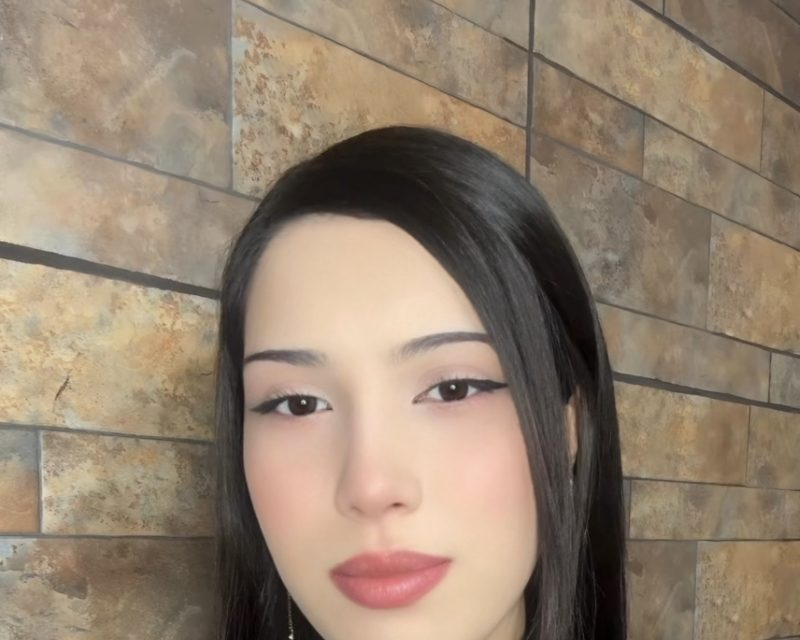
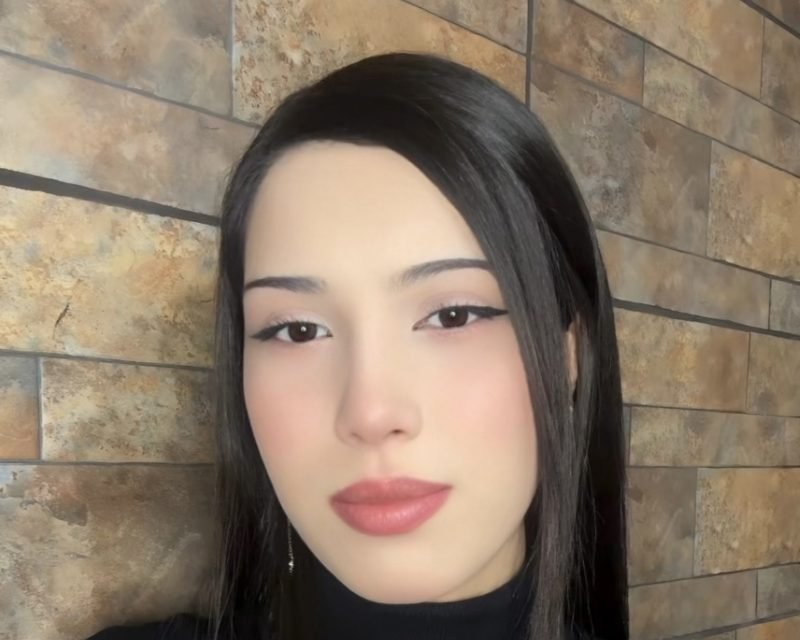
up
up

diff --git a/equipo/index.html b/equipo/index.html
@@ -286,51 +286,21 @@
       border-top: 1px solid var(--color-border-light);
     }
 
-    .team-grid-tesistas {
-      display: grid;
-      grid-template-columns: repeat(2, 1fr);
-      gap: var(--space-lg);
-      margin-top: var(--space-xl);
-    }
+    /* Tesistas (29-10): usan la misma tarjeta .profile-card que el resto del equipo.
+       Solo cambia el espacio sobre la grilla y el ícono de quien aún no tiene foto. */
+    .team-grid--tesistas { margin-top: var(--space-lg); }
 
-    @media (min-width: 600px) {
-      .team-grid-tesistas { grid-template-columns: repeat(4, 1fr); }
-    }
-
-    .tesista-card {
-      border: 1px solid var(--color-border-light);   /* 23-10: antes punteado (cupos vacíos) */
-      border-radius: var(--radius-xl);
-      padding: var(--space-xl) var(--space-md);
-      display: flex;
-      flex-direction: column;
-      align-items: center;
-      text-align: center;
-      gap: var(--space-sm);
-    }
-
-    .tesista-card__avatar {
-      width: 80px;
-      height: 80px;
-      border-radius: 50%;
-      background: var(--color-surface);
-      border: 2px dashed var(--color-border);
+    .profile-card__cover--vacia {
       display: flex;
       align-items: center;
       justify-content: center;
       color: var(--color-text-light);
     }
 
-    .tesista-card__name {
-      font-size: var(--text-sm);
-      font-weight: 600;
-      color: var(--color-text);   /* 23-10: antes gris e itálica ("Por confirmar") */
-    }
+    /* Tesistas: las fotos son 800×640 con el rostro centrado → encuadre al centro */
+    .team-grid--tesistas .profile-card__photo { object-position: center; }
 
-    /* Tesistas con foto (29-10): la foto llena el círculo */
-    .tesista-card__avatar--foto { border: none; overflow: hidden; }
-    .tesista-card__avatar--foto img { width: 100%; height: 100%; object-fit: cover; display: block; }
-    .tesista-card .profile-card__btn { margin-top: var(--space-xs); }
-    /* En el modal de tesistas, encuadra el rostro (fotos 800×640) */
+    /* En el modal de tesistas, encuadra el rostro */
     .profile-modal--tesista .profile-modal__photo { object-position: center 40%; }
 
     /* Subtítulos "Tesistas de pregrado" / "Tesistas de magíster" */
@@ -339,17 +309,6 @@
       font-weight: 600;
       color: var(--color-text);
       margin-top: var(--space-xl);
-    }
-
-    /* Institución bajo "Tesista de pregrado/posgrado" */
-    .tesista-card__inst {
-      font-size: var(--text-xs);
-      color: var(--color-text-muted);
-    }
-
-    .tesista-card__label {
-      font-size: var(--text-xs);
-      color: var(--color-text-light);
     }
 
     .profile-link {
@@ -769,74 +728,98 @@
                Los modales de tesistas están al final, después de los del resto del equipo.
                Fotos: assets/equipo/<nombre-apellido>.jpg, 800×640 px, rostro centrado. -->
           <h3 class="tesistas-subheading">Tesistas de pregrado</h3>
-          <div class="team-grid-tesistas">
+          <div class="team-grid team-grid--tesistas">
             <!-- SOFÍA CORTÉS -->
-            <div class="tesista-card">
-              <div class="tesista-card__avatar tesista-card__avatar--foto"><img loading="lazy" src="../assets/equipo/sofia-cortes.jpg" alt="Sofía Cortés" width="80" height="80"></div>
-              <p class="tesista-card__name">Sofía Cortés</p>
-              <p class="tesista-card__label">Tesista de pregrado</p>
-              <p class="tesista-card__inst">Universidad Diego Portales</p>
-              <button class="profile-card__btn" data-modal="modal-sofia-cortes" aria-haspopup="dialog">
-                Ver perfil
-                <svg width="14" height="14" viewBox="0 0 24 24" fill="none" stroke="currentColor" stroke-width="2.5" stroke-linecap="round" stroke-linejoin="round" aria-hidden="true"><path d="M5 12h14M12 5l7 7-7 7"/></svg>
-              </button>
-            </div>
+            <article class="profile-card">
+              <div class="profile-card__cover">
+                <img loading="lazy" src="../assets/equipo/sofia-cortes.jpg" alt="Sofía Cortés" class="profile-card__photo">
+              </div>
+              <div class="profile-card__body">
+                <h3 class="profile-card__name">Sofía Cortés</h3>
+                <p class="profile-card__role">Tesista de pregrado</p>
+                <p class="profile-card__inst">Universidad Diego Portales</p>
+                <button class="profile-card__btn" data-modal="modal-sofia-cortes" aria-haspopup="dialog">
+                  Ver perfil
+                  <svg width="14" height="14" viewBox="0 0 24 24" fill="none" stroke="currentColor" stroke-width="2.5" stroke-linecap="round" stroke-linejoin="round" aria-hidden="true"><path d="M5 12h14M12 5l7 7-7 7"/></svg>
+                </button>
+              </div>
+            </article>
             <!-- ARANTZA GÁLVEZ -->
-            <div class="tesista-card">
-              <div class="tesista-card__avatar tesista-card__avatar--foto"><img loading="lazy" src="../assets/equipo/arantza-galvez.jpg" alt="Arantza Gálvez" width="80" height="80"></div>
-              <p class="tesista-card__name">Arantza Gálvez</p>
-              <p class="tesista-card__label">Tesista de pregrado</p>
-              <p class="tesista-card__inst">Universidad Diego Portales</p>
-              <button class="profile-card__btn" data-modal="modal-arantza-galvez" aria-haspopup="dialog">
-                Ver perfil
-                <svg width="14" height="14" viewBox="0 0 24 24" fill="none" stroke="currentColor" stroke-width="2.5" stroke-linecap="round" stroke-linejoin="round" aria-hidden="true"><path d="M5 12h14M12 5l7 7-7 7"/></svg>
-              </button>
-            </div>
+            <article class="profile-card">
+              <div class="profile-card__cover">
+                <img loading="lazy" src="../assets/equipo/arantza-galvez.jpg" alt="Arantza Gálvez" class="profile-card__photo">
+              </div>
+              <div class="profile-card__body">
+                <h3 class="profile-card__name">Arantza Gálvez</h3>
+                <p class="profile-card__role">Tesista de pregrado</p>
+                <p class="profile-card__inst">Universidad Diego Portales</p>
+                <button class="profile-card__btn" data-modal="modal-arantza-galvez" aria-haspopup="dialog">
+                  Ver perfil
+                  <svg width="14" height="14" viewBox="0 0 24 24" fill="none" stroke="currentColor" stroke-width="2.5" stroke-linecap="round" stroke-linejoin="round" aria-hidden="true"><path d="M5 12h14M12 5l7 7-7 7"/></svg>
+                </button>
+              </div>
+            </article>
             <!-- ARACELY RODRÍGUEZ -->
-            <div class="tesista-card">
-              <div class="tesista-card__avatar tesista-card__avatar--foto"><img loading="lazy" src="../assets/equipo/aracely-rodriguez.jpg" alt="Aracely Rodríguez" width="80" height="80"></div>
-              <p class="tesista-card__name">Aracely Rodríguez</p>
-              <p class="tesista-card__label">Tesista de pregrado</p>
-              <p class="tesista-card__inst">Universidad Diego Portales</p>
-              <button class="profile-card__btn" data-modal="modal-aracely-rodriguez" aria-haspopup="dialog">
-                Ver perfil
-                <svg width="14" height="14" viewBox="0 0 24 24" fill="none" stroke="currentColor" stroke-width="2.5" stroke-linecap="round" stroke-linejoin="round" aria-hidden="true"><path d="M5 12h14M12 5l7 7-7 7"/></svg>
-              </button>
-            </div>
+            <article class="profile-card">
+              <div class="profile-card__cover">
+                <img loading="lazy" src="../assets/equipo/aracely-rodriguez.jpg" alt="Aracely Rodríguez" class="profile-card__photo">
+              </div>
+              <div class="profile-card__body">
+                <h3 class="profile-card__name">Aracely Rodríguez</h3>
+                <p class="profile-card__role">Tesista de pregrado</p>
+                <p class="profile-card__inst">Universidad Diego Portales</p>
+                <button class="profile-card__btn" data-modal="modal-aracely-rodriguez" aria-haspopup="dialog">
+                  Ver perfil
+                  <svg width="14" height="14" viewBox="0 0 24 24" fill="none" stroke="currentColor" stroke-width="2.5" stroke-linecap="round" stroke-linejoin="round" aria-hidden="true"><path d="M5 12h14M12 5l7 7-7 7"/></svg>
+                </button>
+              </div>
+            </article>
             <!-- CATALINA ROJAS (falta foto y descripción: queda con ícono y sin botón) -->
-            <div class="tesista-card">
-              <div class="tesista-card__avatar"><svg width="32" height="32" viewBox="0 0 24 24" fill="none" stroke="currentColor" stroke-width="1.5" aria-hidden="true"><circle cx="12" cy="8" r="4"/><path d="M4 20c0-4 3.6-7 8-7s8 3 8 7"/></svg></div>
-              <p class="tesista-card__name">Catalina Rojas</p>
-              <p class="tesista-card__label">Tesista de pregrado</p>
-              <p class="tesista-card__inst">Universidad Diego Portales</p>
-            </div>
+            <article class="profile-card">
+              <div class="profile-card__cover profile-card__cover--vacia">
+                <svg width="40" height="40" viewBox="0 0 24 24" fill="none" stroke="currentColor" stroke-width="1.5" aria-hidden="true"><circle cx="12" cy="8" r="4"/><path d="M4 20c0-4 3.6-7 8-7s8 3 8 7"/></svg>
+              </div>
+              <div class="profile-card__body">
+                <h3 class="profile-card__name">Catalina Rojas</h3>
+                <p class="profile-card__role">Tesista de pregrado</p>
+                <p class="profile-card__inst">Universidad Diego Portales</p>
+              </div>
+            </article>
           </div><!-- /.team-grid-tesistas pregrado -->
 
           <!-- TESISTAS DE MAGÍSTER -->
           <h3 class="tesistas-subheading">Tesistas de magíster</h3>
-          <div class="team-grid-tesistas">
+          <div class="team-grid team-grid--tesistas">
             <!-- TRAJAN PIRKOVIC -->
-            <div class="tesista-card">
-              <div class="tesista-card__avatar tesista-card__avatar--foto"><img loading="lazy" src="../assets/equipo/trajan-pirkovic.jpg" alt="Trajan Pirkovic" width="80" height="80"></div>
-              <p class="tesista-card__name">Trajan Pirkovic</p>
-              <p class="tesista-card__label">Tesista de magíster</p>
-              <p class="tesista-card__inst">P. Universidad Católica de Chile</p>
-              <button class="profile-card__btn" data-modal="modal-trajan-pirkovic" aria-haspopup="dialog">
-                Ver perfil
-                <svg width="14" height="14" viewBox="0 0 24 24" fill="none" stroke="currentColor" stroke-width="2.5" stroke-linecap="round" stroke-linejoin="round" aria-hidden="true"><path d="M5 12h14M12 5l7 7-7 7"/></svg>
-              </button>
-            </div>
+            <article class="profile-card">
+              <div class="profile-card__cover">
+                <img loading="lazy" src="../assets/equipo/trajan-pirkovic.jpg" alt="Trajan Pirkovic" class="profile-card__photo">
+              </div>
+              <div class="profile-card__body">
+                <h3 class="profile-card__name">Trajan Pirkovic</h3>
+                <p class="profile-card__role">Tesista de magíster</p>
+                <p class="profile-card__inst">Pontificia Universidad Católica de Chile</p>
+                <button class="profile-card__btn" data-modal="modal-trajan-pirkovic" aria-haspopup="dialog">
+                  Ver perfil
+                  <svg width="14" height="14" viewBox="0 0 24 24" fill="none" stroke="currentColor" stroke-width="2.5" stroke-linecap="round" stroke-linejoin="round" aria-hidden="true"><path d="M5 12h14M12 5l7 7-7 7"/></svg>
+                </button>
+              </div>
+            </article>
             <!-- IGNACIO ZAVALA -->
-            <div class="tesista-card">
-              <div class="tesista-card__avatar tesista-card__avatar--foto"><img loading="lazy" src="../assets/equipo/ignacio-zavala.jpg" alt="Ignacio Zavala" width="80" height="80"></div>
-              <p class="tesista-card__name">Ignacio Zavala</p>
-              <p class="tesista-card__label">Tesista de magíster</p>
-              <p class="tesista-card__inst">P. Universidad Católica de Chile</p>
-              <button class="profile-card__btn" data-modal="modal-ignacio-zavala" aria-haspopup="dialog">
-                Ver perfil
-                <svg width="14" height="14" viewBox="0 0 24 24" fill="none" stroke="currentColor" stroke-width="2.5" stroke-linecap="round" stroke-linejoin="round" aria-hidden="true"><path d="M5 12h14M12 5l7 7-7 7"/></svg>
-              </button>
-            </div>
+            <article class="profile-card">
+              <div class="profile-card__cover">
+                <img loading="lazy" src="../assets/equipo/ignacio-zavala.jpg" alt="Ignacio Zavala" class="profile-card__photo">
+              </div>
+              <div class="profile-card__body">
+                <h3 class="profile-card__name">Ignacio Zavala</h3>
+                <p class="profile-card__role">Tesista de magíster</p>
+                <p class="profile-card__inst">Pontificia Universidad Católica de Chile</p>
+                <button class="profile-card__btn" data-modal="modal-ignacio-zavala" aria-haspopup="dialog">
+                  Ver perfil
+                  <svg width="14" height="14" viewBox="0 0 24 24" fill="none" stroke="currentColor" stroke-width="2.5" stroke-linecap="round" stroke-linejoin="round" aria-hidden="true"><path d="M5 12h14M12 5l7 7-7 7"/></svg>
+                </button>
+              </div>
+            </article>
           </div><!-- /.team-grid-tesistas magíster -->
 
         </div><!-- /.team-group #investigadores -->
